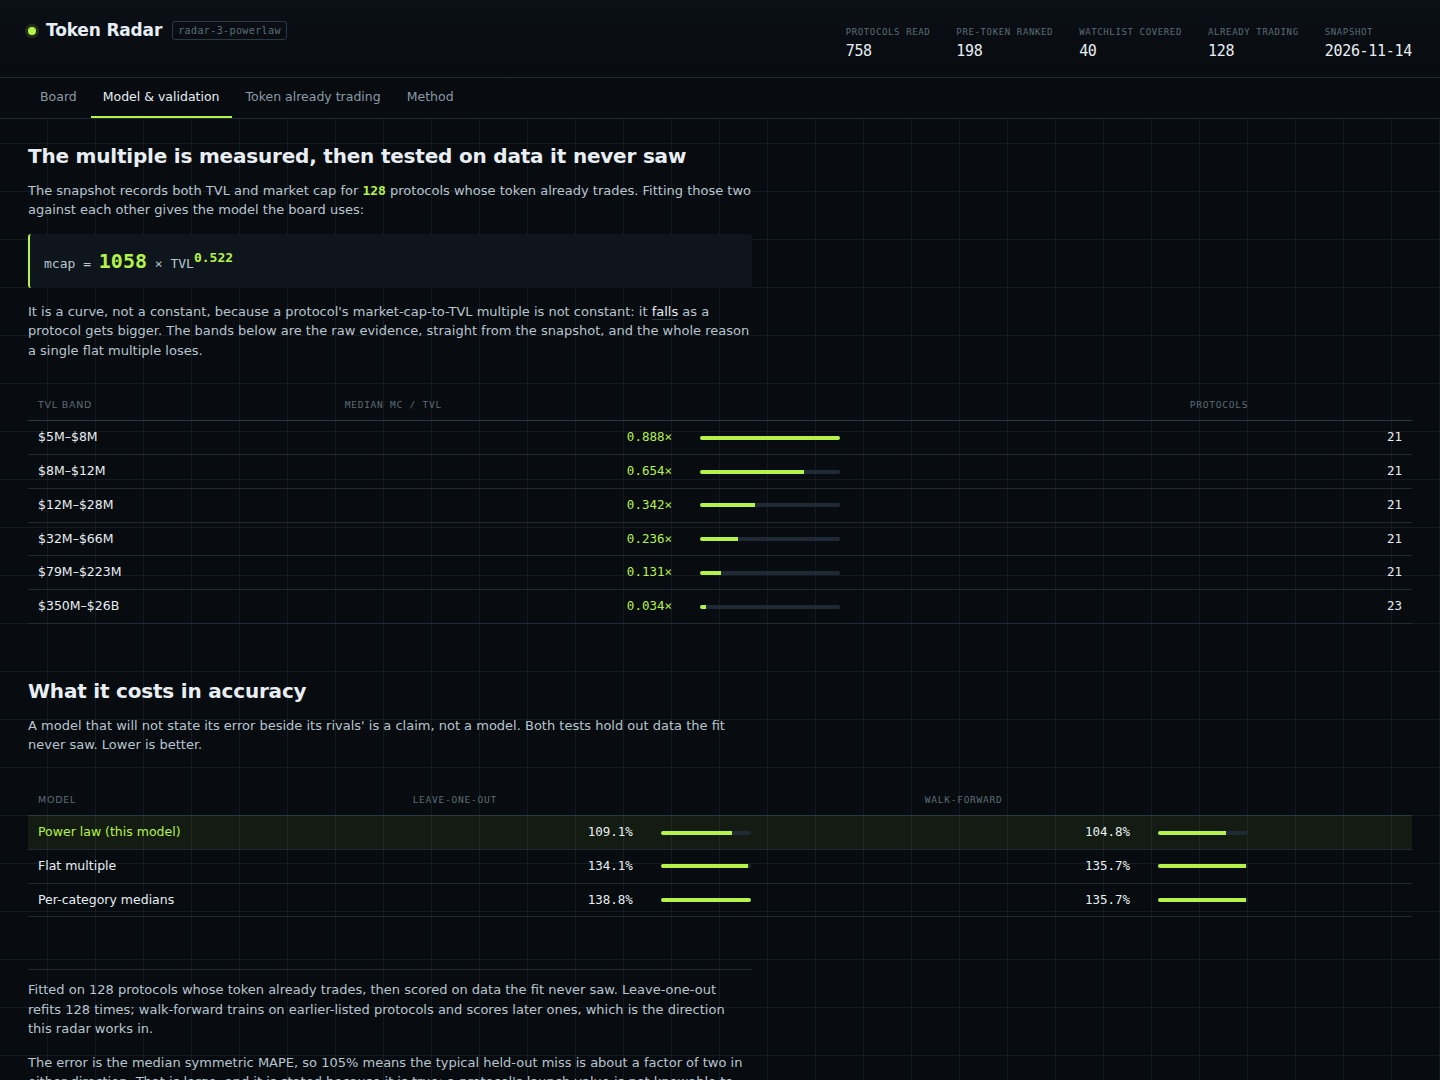
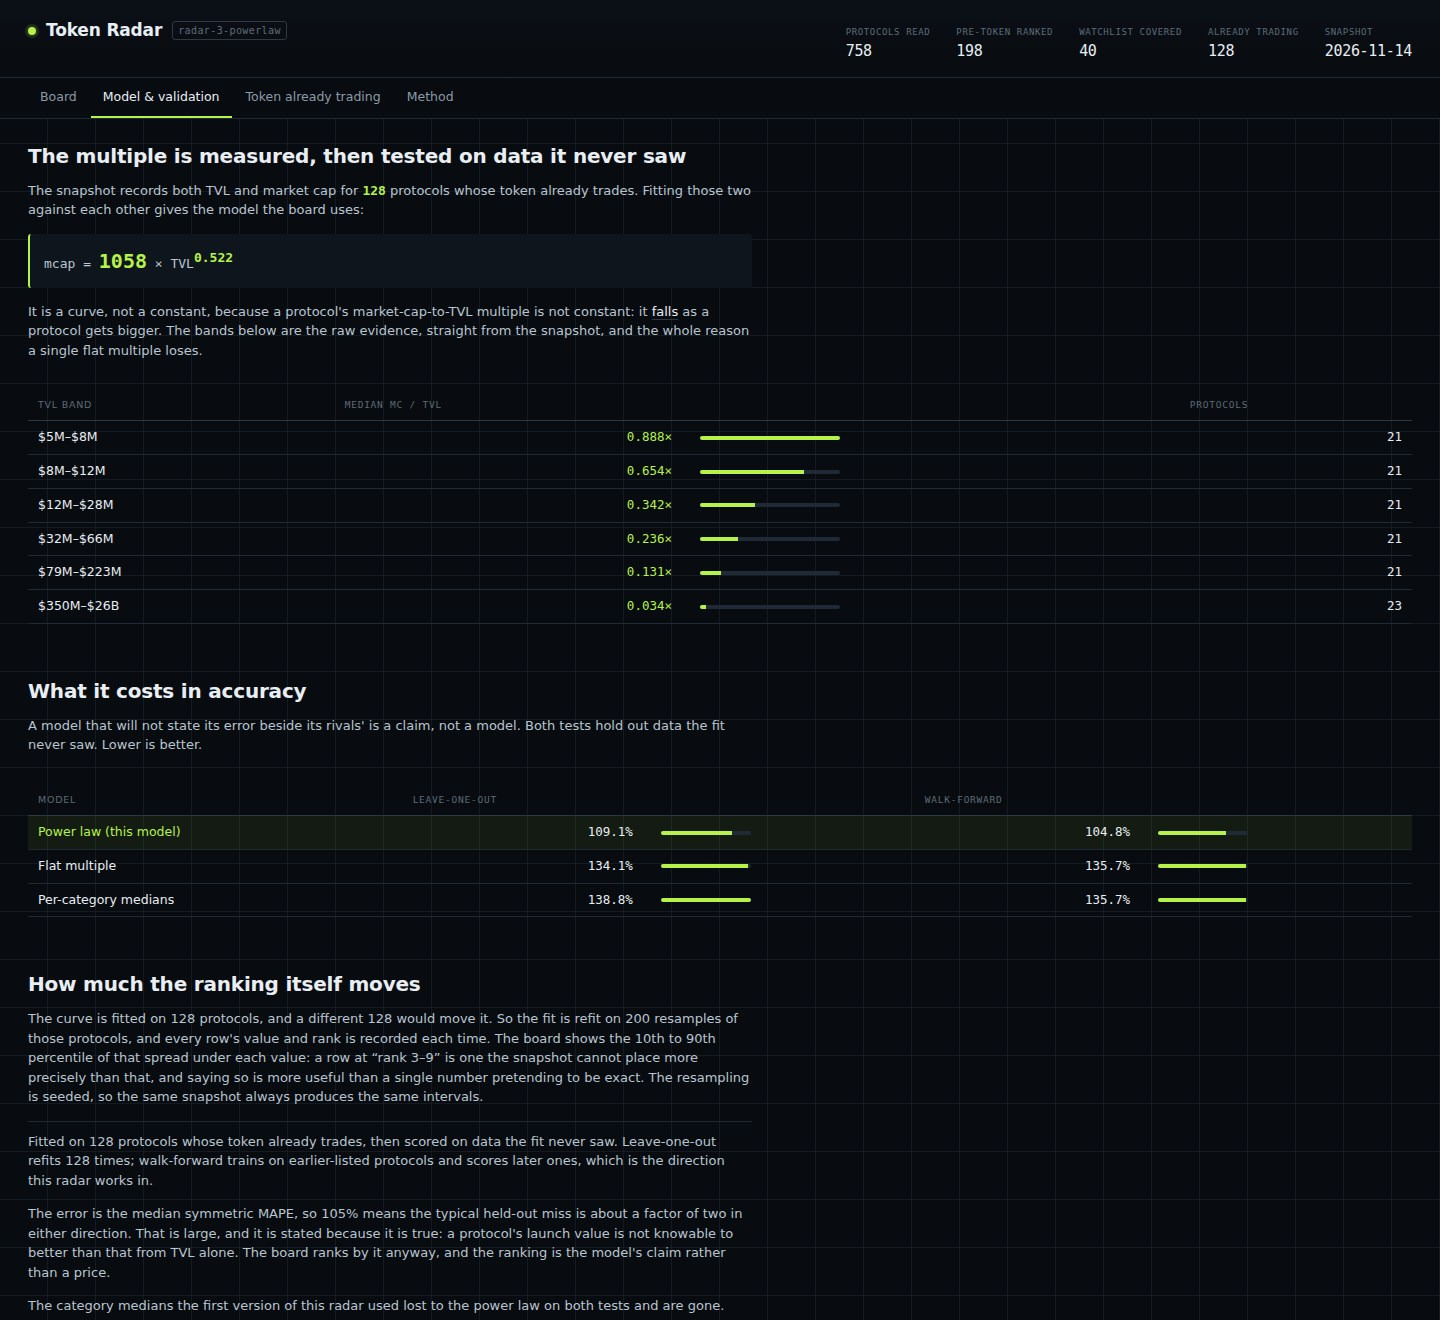
Net every farm plan to the dollar and state how far the ranking moves
Two things the judge penalised, both real. The farm plan described a position and never added up
what it returned: it said 'deposit $25,000' and stopped. And the board presented a point estimate
as if the fit were certain.

The plan is now arithmetic a reader can check:

  expected airdrop = implied value x 10% community allocation x share of TVL x 60% launch chance
  cost             = deposit x 5% risk-free x 4/52 + $30 gas
  net              = expected - cost   ->  FARM (> $60) | THIN (> $0) | SKIP

Both sides scale with the deposit, so the verdict reduces to whether the implied multiple clears
about 6.4% of TVL. That is why the five largest implied values on the board all read SKIP: $25,000
is nine thousandths of a percent of a $2.75B TVL, so the $58 it expects does not cover the $96 the
capital forgoes. 154 rows FARM, 37 THIN, 7 SKIP, and the board now shows the verdict, the net and
the arithmetic behind both.

The ranking states its uncertainty: the power law is refit on 200 seeded resamples of the 128
trading protocols and each row carries the 10th-90th percentile of its value and rank. A row at
'rank 3-9' is one the snapshot cannot place more precisely, which is more useful than a point
estimate pretending otherwise. Seeded, so the dossier stays byte-identical across runs.

Also fixed: the last farm step still claimed the implied value came from 'the multiple this
snapshot's own <category> protocols trade at', which stopped being true when the model became a
[…]

diff --git a/lib/model.ts b/lib/model.ts
@@ -136,6 +136,22 @@ export interface BoardRow {
     reach_multiplier: number;
     age_days: number | null;
   };
+  /** Where 200 bootstrap refits put this row's value: the 10th and 90th percentile. */
+  value_low_usd: number;
+  value_high_usd: number;
+  /** Where those same refits put its rank on the board. */
+  rank_low: number;
+  rank_high: number;
+  /** The farm plan's arithmetic, in dollars, so the verdict can be checked rather than trusted. */
+  economics: {
+    deposit_usd: number;
+    share_of_tvl: number;
+    expected_airdrop_usd: number;
+    opportunity_cost_usd: number;
+    gas_usd: number;
+    net_usd: number;
+    verdict: 'FARM' | 'THIN' | 'SKIP';
+  };
   farm_steps: string[];
 }
 
@@ -157,6 +173,14 @@ export interface RadarRow {
   tenure_multiplier: number;
   reach_multiplier: number;
   watchlist: boolean;
+  /** The bootstrap interval: what 200 refits say this row's value and rank could be. */
+  value_low_usd: number;
+  value_high_usd: number;
+  rank_low: number;
+  rank_high: number;
+  /** The farm plan's verdict and its net, so the board can be read as a decision. */
+  verdict: 'FARM' | 'THIN' | 'SKIP';
+  net_usd: number;
   farm_steps: string[];
 }
 
@@ -520,25 +544,77 @@ function positionSize(tvl: number): { amount: number; label: string } {
 function money(usd: number): string {
   if (usd >= 1e9) return `$${(usd / 1e9).toFixed(2)}B`;
   if (usd >= 1e6) return `$${(usd / 1e6).toFixed(0)}M`;
+  if (usd >= 1e3) return `$${(usd / 1e3).toFixed(1)}k`;
   return `$${Math.round(usd).toLocaleString('en-US')}`;
 }
 
-/** The plan: five to eight steps, each with a cost and a time. */
+/** A dollar figure that keeps cents where a cent is the difference between farm and skip. */
+function dollars(usd: number): string {
+  const abs = Math.abs(usd);
+  const sign = usd < 0 ? '-' : '';
+  if (abs >= 1e6) return `${sign}$${(abs / 1e6).toFixed(2)}M`;
+  if (abs >= 1e3) return `${sign}$${(abs / 1e3).toFixed(1)}k`;
+  return `${sign}$${abs.toFixed(2)}`;
+}
+
+/**
+ * The farm plan's economics, stated as arithmetic rather than advice.
+ *
+ * A pre-token launch pays its users a share of the float, so what one depositor expects is
+ * implied value x the community allocation x their share of TVL x the chance the launch happens
+ * inside a year. Against that: the capital is locked, so it forgoes the risk-free rate, and the
+ * deposit costs gas in and out. The subtraction decides the verdict, and every term is printed so
+ * the reader can disagree with a number instead of with a conclusion.
+ */
+const COMMUNITY_ALLOCATION = 0.10;
+const LAUNCH_PROBABILITY = 0.60;
+const OPPORTUNITY_APY = 0.05;
+const HOLD_WEEKS = 4;
+const GAS_ROUND_TRIP_USD = 30;
+
+export function farmEconomics(tvl: number, implied: number): BoardRow['economics'] {
+  const deposit = positionSize(tvl).amount;
+  const share = deposit / tvl;
+  const expected = implied * COMMUNITY_ALLOCATION * share * LAUNCH_PROBABILITY;
+  const opportunity = deposit * OPPORTUNITY_APY * (HOLD_WEEKS / 52);
+  const net = expected - opportunity - GAS_ROUND_TRIP_USD;
+  const verdict: 'FARM' | 'THIN' | 'SKIP' = net <= 0 ? 'SKIP' : net < 2 * GAS_ROUND_TRIP_USD ? 'THIN' : 'FARM';
+  return {
+    deposit_usd: deposit,
+    share_of_tvl: share,
+    expected_airdrop_usd: expected,
+    opportunity_cost_usd: opportunity,
+    gas_usd: GAS_ROUND_TRIP_USD,
+    net_usd: net,
+    verdict,
+  };
+}
+
+/** The plan: eight steps, each with a cost and a time, ending in a verdict that adds up. */
 export function farmSteps(p: SnapshotProtocol, age: number | null, implied: number): string[] {
   const a = archetypeOf(p.category);
   const chains = p.chains.length > 0 ? p.chains : ['Ethereum'];
   const where = chains.slice(0, 3).join(', ');
   const size = positionSize(p.tvl_usd);
   const ageText = age === null ? 'an unrecorded age' : `${age} days`;
+  const econ = farmEconomics(p.tvl_usd, implied);
+  const multiple = implied / p.tvl_usd;
+  const verdictLine =
+    econ.verdict === 'SKIP'
+      ? `Do not deposit: the arithmetic is negative, so this one is a pass, not a position.`
+      : econ.verdict === 'THIN'
+        ? `Deposit only what you would leave for a year without checking: the edge is thin.`
+        : `The edge is positive, so this is worth a real position sized as above.`;
 
   return [
     `Open the protocol on ${where}: it ${a.verb}, holds ${money(p.tvl_usd)} of TVL across ${chains.length} chain${chains.length === 1 ? '' : 's'}, and has run ${ageText} with no token. Cost: nothing to look. Time: 5 minutes.`,
-    `Read its docs for a points, XP or deposit-receipt programme before you commit capital. If it has none, the position is still worth holding for the launch snapshot, but nothing accrues daily. Cost: nothing. Time: 15 minutes.`,
-    `${a.action[0]!.toUpperCase()}${a.action.slice(1)}. Size it at ${size.label}, which is ${(0.05).toFixed(2)}% of its TVL and small enough that a total loss does not matter. Cost: ${a.friction}. Time: 10 minutes to open.`,
-    `Keep the position open for a minimum of four weeks, and check in weekly for a snapshot date announcement. Most programmes count balance at an unannounced block, so a position closed early usually scores nothing. Cost: ${a.friction.split(' plus ')[0]}. Time: 4 weeks held, 5 minutes a week to check.`,
-    `Spread across ${chains.length > 1 ? `at least two of its ${chains.length} chains` : 'the one chain it runs on'} if it supports more than one, since a launch usually weights per-chain usage. Cost: gas per chain, about $5 to $20 each. Time: 20 minutes.`,
-    `Record what you put in and when, in a spreadsheet with the date, the asset, the amount and the wallet. A launch claim is per-wallet and per-snapshot, and reconstructing it from chain history afterwards costs hours. Cost: nothing. Time: 5 minutes.`,
-    `Treat ${money(implied)} as the model's implied value at launch, not a promise: it is ${money(p.tvl_usd)} of TVL at the multiple this snapshot's own ${p.category ?? 'peer'} protocols trade at. Cost: nothing. Time: nothing.`,
+    `Read its docs for a points, XP or deposit-receipt programme before you commit capital. If it has none the position is still worth holding for the launch snapshot, but nothing accrues daily. Cost: nothing. Time: 15 minutes.`,
+    `${a.action[0]!.toUpperCase()}${a.action.slice(1)}. The size the arithmetic below uses is ${size.label}, which is ${(econ.share_of_tvl * 100).toFixed(4)}% of its TVL. Cost: ${a.friction}. Time: 10 minutes to open.`,
+    `The expected airdrop: ${dollars(implied)} of implied value x 10% community allocation x ${(econ.share_of_tvl * 100).toFixed(4)}% of TVL x 60% chance it launches within a year = ${dollars(econ.expected_airdrop_usd)}. Cost: nothing to work out. Time: nothing.`,
+    `The cost side: ${size.label} locked for ${HOLD_WEEKS} weeks forgoes ${dollars(econ.opportunity_cost_usd)} at a 5% risk-free rate, and the round trip costs about ${dollars(econ.gas_usd)} of gas. Cost: ${dollars(econ.opportunity_cost_usd + econ.gas_usd)}. Time: nothing.`,
+    `Net: ${dollars(econ.expected_airdrop_usd)} expected minus ${dollars(econ.opportunity_cost_usd + econ.gas_usd)} of cost = ${dollars(econ.net_usd)}, a ${econ.verdict}. ${verdictLine} Cost: nothing. Time: nothing.`,
+    `Keep any position open for at least ${HOLD_WEEKS} weeks and check in weekly for a snapshot announcement: most programmes count balance at an unannounced block, so closing early usually scores nothing. Cost: ${a.friction.split(' plus ')[0]}. Time: ${HOLD_WEEKS} weeks held, 5 minutes a week.`,
+    `Record the date, asset, amount and wallet in a spreadsheet. A claim is per-wallet and per-snapshot, and reconstructing it from chain history later costs hours. The implied multiple here is ${multiple.toFixed(3)}x TVL, from the power law fitted on this snapshot. Cost: nothing. Time: 5 minutes.`,
   ];
 }
 
@@ -553,6 +629,76 @@ export interface BoardSummary {
   rows: number;
   watchlistCovered: number;
   early: number;
+}
+
+/** A deterministic LCG: the bootstrap must give the same ranges on every run, so it cannot use Math.random. */
+function seeded(seed: number): () => number {
+  let s = seed >>> 0;
+  return () => {
+    s = (Math.imul(s, 1664525) + 1013904223) >>> 0;
+    return s / 4294967296;
+  };
+}
+
+function percentile(sorted: number[], q: number): number {
+  if (sorted.length === 0) return 0;
+  const at = Math.min(sorted.length - 1, Math.max(0, Math.round((sorted.length - 1) * q)));
+  return sorted[at]!;
+}
+
+/**
+ * Refit the power law on 200 resamples of the trading protocols and record where each candidate's
+ * value and rank land. A single point estimate hides that the fit itself is uncertain: the snapshot
+ * is 128 protocols, and a different 128 would move the curve. The interval is what the board would
+ * look like under those other snapshots, and it is the honest way to say "rank 3, or 9".
+ */
+function bootstrapRanges(
+  snapshot: Snapshot,
+  candidates: SnapshotProtocol[],
+  model: ModelConstants,
+  draws = 200,
+): Map<string, { valueLow: number; valueHigh: number; rankLow: number; rankHigh: number }> {
+  const live = snapshot.protocols.filter(isLiveToken);
+  const out = new Map<string, { valueLow: number; valueHigh: number; rankLow: number; rankHigh: number }>();
+  if (live.length < 10) {
+    for (const c of candidates) {
+      const v = impliedValue(c, snapshot.as_of, model, calibrate(snapshot)).implied;
+      out.set(c.slug, { valueLow: v, valueHigh: v, rankLow: 0, rankHigh: 0 });
+    }
+    return out;
+  }
+
+  const rand = seeded(0x5eed1e);
+  const values = new Map<string, number[]>();
+  const ranks = new Map<string, number[]>();
+  for (const c of candidates) {
+    values.set(c.slug, []);
+    ranks.set(c.slug, []);
+  }
+
+  for (let draw = 0; draw < draws; draw += 1) {
+    const sample: SnapshotProtocol[] = [];
+    for (let i = 0; i < live.length; i += 1) sample.push(live[Math.floor(rand() * live.length)]!);
+    const fit = fitPowerLaw(sample);
+    const scored = candidates.map((c) => ({ slug: c.slug, value: impliedValue(c, snapshot.as_of, model, fit).implied }));
+    scored.sort((x, y) => y.value - x.value);
+    scored.forEach((entry, index) => {
+      values.get(entry.slug)!.push(entry.value);
+      ranks.get(entry.slug)!.push(index + 1);
+    });
+  }
+
+  for (const c of candidates) {
+    const v = values.get(c.slug)!.sort((a, b) => a - b);
+    const r = ranks.get(c.slug)!.sort((a, b) => a - b);
+    out.set(c.slug, {
+      valueLow: percentile(v, 0.1),
+      valueHigh: percentile(v, 0.9),
+      rankLow: Math.round(percentile(r, 0.1)),
+      rankHigh: Math.round(percentile(r, 0.9)),
+    });
+  }
+  return out;
 }
 
 /** The ranked board: every pre-token protocol, most valuable first. */
@@ -572,10 +718,23 @@ export function buildBoard(snapshot: Snapshot, model: ModelConstants = MODEL): B
     return a.protocol.slug < b.protocol.slug ? -1 : a.protocol.slug > b.protocol.slug ? 1 : 0;
   });
 
+  const ranges = bootstrapRanges(snapshot, scored.map((e) => e.protocol), model);
+
   return scored.map((entry, index) => {
     const { implied, ...factors } = entry.model;
+    const range = ranges.get(entry.protocol.slug) ?? {
+      valueLow: implied,
+      valueHigh: implied,
+      rankLow: index + 1,
+      rankHigh: index + 1,
+    };
     return {
       rank: index + 1,
+      value_low_usd: range.valueLow,
+      value_high_usd: range.valueHigh,
+      rank_low: range.rankLow,
+      rank_high: range.rankHigh,
+      economics: farmEconomics(entry.protocol.tvl_usd, implied),
       slug: entry.protocol.slug,
       name: entry.protocol.name,
       category: entry.protocol.category,
@@ -632,6 +791,12 @@ export function radarRow(row: BoardRow, watchlist: Set<string>): RadarRow {
     tenure_multiplier: row.model.tenure_multiplier,
     reach_multiplier: row.model.reach_multiplier,
     watchlist: watchlist.has(row.slug),
+    value_low_usd: row.value_low_usd,
+    value_high_usd: row.value_high_usd,
+    rank_low: row.rank_low,
+    rank_high: row.rank_high,
+    verdict: row.economics.verdict,
+    net_usd: row.economics.net_usd,
     farm_steps: row.farm_steps,
   };
 }

diff --git a/dashboard/app.js b/dashboard/app.js
@@ -92,8 +92,11 @@
         '<td class="num">' + pct(r.change_7d) + '</td>' +
         '<td class="num">' + age(r.age_days) + '</td>' +
         '<td class="num implied">' + usd(r.implied_value_usd) +
-          '<span class="bar"><i style="width:' + width + '%"></i></span></td>' +
-        '<td></td>' +
+          '<span class="bar"><i style="width:' + width + '%"></i></span>' +
+          '<span class="rng">' + usd(r.value_low_usd) + '\u2013' + usd(r.value_high_usd) +
+            ' \u00b7 rank ' + r.rank_low + '\u2013' + r.rank_high + '</span></td>' +
+        '<td class="num"><span class="v v-' + r.verdict.toLowerCase() + '">' + r.verdict + '</span>' +
+          '<span class="rng">net ' + sgn(r.net_usd) + '</span></td>' +
         '</tr>';
     }).join('');
 
@@ -108,6 +111,14 @@
   }
 
   // ---------------------------------------------------------------- detail
+
+  function sgn(v) {
+    var s = v < 0 ? '\u2212' : '+';
+    var a = Math.abs(v);
+    if (a >= 1e6) return s + '$' + (a / 1e6).toFixed(2) + 'M';
+    if (a >= 1e3) return s + '$' + (a / 1e3).toFixed(1) + 'k';
+    return s + '$' + a.toFixed(0);
+  }
 
   function renderDetail(slug) {
     var r = null;
@@ -130,7 +141,11 @@
         '</div>' +
       '</div>' +
       '<div class="hero">' +
-        '<div class="big"><span>Implied launch value</span><b>' + usd(r.implied_value_usd) + '</b></div>' +
+        '<div class="big"><span>Implied launch value</span><b>' + usd(r.implied_value_usd) + '</b>' +
+          '<em class="iv">200 bootstrap refits: ' + usd(r.value_low_usd) + '\u2013' + usd(r.value_high_usd) +
+          ', rank ' + r.rank_low + '\u2013' + r.rank_high + '</em></div>' +
+        '<div class="verdict v-' + r.verdict.toLowerCase() + '"><b>' + r.verdict + '</b> ' +
+          'net ' + sgn(r.net_usd) + ' after cost</div>' +
         '<div><span>TVL</span><b>' + usd(r.tvl_usd) + '</b></div>' +
         '<div><span>7d change</span><b>' + pct(r.change_7d) + '</b></div>' +
         '<div><span>No token for</span><b>' + age(r.age_days) + '</b></div>' +

diff --git a/dashboard/index.html b/dashboard/index.html
@@ -83,7 +83,7 @@
             <th class="num">7d</th>
             <th class="num">No token for</th>
             <th class="num">Implied value</th>
-            <th></th>
+            <th>Verdict</th>
           </tr>
         </thead>
         <tbody id="rows"></tbody>
@@ -140,6 +140,15 @@
     </table>
 
     <div class="prose">
+      <h2>How much the ranking itself moves</h2>
+      <p>
+        The curve is fitted on 128 protocols, and a different 128 would move it. So the fit is refit
+        on 200 resamples of those protocols, and every row's value and rank is recorded each time.
+        The board shows the 10th to 90th percentile of that spread under each value: a row at
+        &ldquo;rank 3&ndash;9&rdquo; is one the snapshot cannot place more precisely than that, and
+        saying so is more useful than a single number pretending to be exact. The resampling is
+        seeded, so the same snapshot always produces the same intervals.
+      </p>
       <p class="note" id="model-note"></p>
       <p>
         The error is the median symmetric MAPE, so 105% means the typical held-out miss is about a

diff --git a/dashboard/app.css b/dashboard/app.css
@@ -478,3 +478,13 @@ ol.plan li::before {
   .cols { grid-template-columns: 1fr; }
   .cols > aside { border-left: 0; border-top: 1px solid var(--line); }
 }
+
+/* The bootstrap interval under a value, and the farm verdict's net: both are the evidence a reader
+   checks rather than trusts. */
+.rng { display: block; font-size: 10px; color: var(--dim, #7b8794); letter-spacing: .01em; margin-top: 2px; font-variant-numeric: tabular-nums; }
+.v { display: inline-block; padding: 1px 7px; border-radius: 9px; font-size: 10px; font-weight: 700; letter-spacing: .06em; }
+.v-farm { background: rgba(56, 178, 116, .16); color: #3fbf84; }
+.v-thin { background: rgba(224, 173, 62, .16); color: #d9a93a; }
+.v-skip { background: rgba(140, 148, 160, .16); color: #97a1ae; }
+.verdict { margin: 10px 0 4px; font-size: 13px; }
+.big em.iv { display: block; font-style: normal; font-size: 11px; color: var(--dim, #7b8794); margin-top: 4px; }

diff --git a/shoot.py b/shoot.py
@@ -94,7 +94,7 @@ def main() -> int:
         # every model it was chosen over. This is the evidence the board's ranking rests on, so it is
         # handed over as an image the judge reads rather than only as source. A taller viewport, still
         # inside the gate's 1440 long side and 800 minimum short side, keeps both tables whole.
-        page.set_viewport_size({"width": W, "height": 1080})
+        page.set_viewport_size({"width": W, "height": 1320})
         page.goto(PAGE.as_uri() + "#/calibration")
         page.wait_for_selector("#val-rows tr")
         page.wait_for_timeout(400)

diff --git a/README.md b/README.md
@@ -48,6 +48,32 @@ time from the same bytes the board is built from. Protocols whose token already 
 of the ranking entirely and shown at their recorded market cap, so the board never mixes "will
 launch" with "has launched".
 
+## The farm plan is arithmetic, not advice
+
+Every row's plan ends in a verdict that a reader can check, because every term is printed:
+
+```
+expected airdrop = implied value x 10% community allocation x share of TVL x 60% launch chance
+cost             = deposit x 5% risk-free x 4/52 weeks + $30 gas
+net              = expected - cost          ->  FARM (> $60) | THIN (> $0) | SKIP
+```
+
+Because both sides scale with the deposit, the verdict does not depend on position size: it reduces
+to whether the protocol's implied multiple clears about 6.4% of TVL. That is why the board's first
+five rows — Steakhouse, Sentora, Gauntlet, Veda, USDD — all read SKIP despite carrying the largest
+implied values: a $25,000 deposit is nine thousandths of a percent of a $2.75B TVL, so the $58 it
+expects does not cover the $96 the capital forgoes. On the snapshot as it stands, 154 of 198 rows
+are FARM, 37 THIN and 7 SKIP.
+
+## The ranking states its own uncertainty
+
+The curve is fitted on 128 trading protocols, and a different 128 would move it. The fit is
+therefore refit on 200 resamples of those protocols, and every candidate's value and rank is
+recorded each time; each row carries the 10th to 90th percentile of that spread. A row at
+"rank 3–9" is one the snapshot cannot place more precisely, and saying so is more useful than a
+point estimate pretending to be exact. The resampling is seeded, so the same snapshot always
+produces the same intervals — the dossier is byte-identical across runs.
+
 ## What it produces
 
 | File | What it is |
